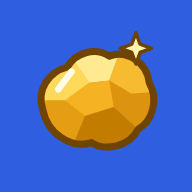
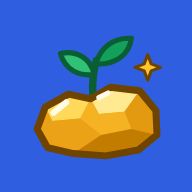
Identité Pépite : pépite d'or avec une pousse, logotype vectoriel, textes d'intro
Symbole pépite à facettes avec jeune pousse, logotype en tracés (accent en feuille, point du i en pépite), versions couleur et monochrome, planche de marque, texte d'introduction pour les parents et mention claire que les gains sont financés par les parents.

Claude-Session: https://claude.ai/code/session_01FnvJs2a6yw4f7tqEzZ4wjv

Changed region(s): [[0.1562, 0.1562, 0.8438, 0.8438]]

diff --git a/app.js b/app.js
@@ -37,8 +37,8 @@ const DICE = {
 };
 const CAPS = [20, 50, 100, 200, 300, 500, 750, 1000, 1500, 2000, 3000, 5000, 7500, 10000, 15000, 20000];
 const PIPS = { 1: [[50, 50]], 2: [[28, 28], [72, 72]], 3: [[28, 28], [50, 50], [72, 72]], 4: [[28, 28], [72, 28], [28, 72], [72, 72]], 5: [[28, 28], [72, 28], [50, 50], [28, 72], [72, 72]], 6: [[28, 26], [72, 26], [28, 50], [72, 50], [28, 74], [72, 74]] };
-const LOGO = `<svg class="logo" viewBox="0 0 64 64" aria-hidden="true"><defs><clipPath id="nc"><path d="M8 38C5 29 11 21 19 19 23 12 32 10 38 14 46 11 55 17 56 26 60 33 58 43 51 47 47 55 36 57 30 53 21 56 10 49 8 38Z"/></clipPath></defs><g clip-path="url(#nc)"><rect width="64" height="64" fill="#efa418"/><path d="M4 34 12 22 22 16 29 26 18 34z" fill="#ffd95a"/><path d="M22 16 34 8 42 14 38 25 29 26z" fill="#ffe991"/><path d="M42 14 58 18 60 30 48 31 38 25z" fill="#f7bb32"/><path d="M18 34 29 26 38 25 40 37 27 41z" fill="#f5b323"/><path d="M38 25 48 31 60 30 62 44 50 46 40 37z" fill="#dc9310"/><path d="M4 34 18 34 27 41 20 58 2 50z" fill="#e59d14"/><path d="M27 41 40 37 50 46 44 62 20 58z" fill="#c27c00"/></g><path d="M8 38C5 29 11 21 19 19 23 12 32 10 38 14 46 11 55 17 56 26 60 33 58 43 51 47 47 55 36 57 30 53 21 56 10 49 8 38Z" fill="none" stroke="#6e4400" stroke-width="3.2" stroke-linejoin="round"/><path d="M15 29 21 21" stroke="#fffbe6" stroke-width="3" stroke-linecap="round"/><path d="M50 3.5l1.9 5.1 5.1 1.9-5.1 1.9-1.9 5.1-1.9-5.1-5.1-1.9 5.1-1.9z" fill="#fff3b0" stroke="#6e4400" stroke-width="1.6" stroke-linejoin="round"/></svg>`;
-const WM = `<span class="wm" role="img" aria-label="Pépite"><span aria-hidden="true">P<span class="e">e</span>pite</span></span>`;
+const LOGO = `<svg class="logo" viewBox="0 0 64 64" aria-hidden="true"><path d="M30.5 32C30 26 30.6 21 32 16.5" stroke="#0b5e33" stroke-width="3.2" stroke-linecap="round" fill="none"/><path d="M31 22.5C24.5 23.5 18.5 20.5 16.5 13.5 23.5 12 29.5 15.5 31 22.5Z" fill="#2fc275" stroke="#0b5e33" stroke-width="2.2" stroke-linejoin="round"/><path d="M31.8 18C33.5 11 39.5 6.5 47 7 46 14.5 39.5 18.5 31.8 18Z" fill="#13a05a" stroke="#0b5e33" stroke-width="2.2" stroke-linejoin="round"/><defs><clipPath id="nc"><path d="M6.5 46 10 36.5 20 31 29.5 33 38 28 50.5 29.5 57.5 38 58 48.5 50 55 36 57.5 22 56.5 11 54Z"/></clipPath></defs><g clip-path="url(#nc)"><rect width="64" height="64" fill="#f0a71a"/><path d="M10 36.5 20 31 29.5 33 25 41.5 13 42.5Z" fill="#ffd95a"/><path d="M29.5 33 38 28 50.5 29.5 44 38.5 33 39.5Z" fill="#ffe991"/><path d="M50.5 29.5 57.5 38 58 48.5 47 46 44 38.5Z" fill="#e39a10"/><path d="M25 41.5 29.5 33 33 39.5 44 38.5 47 46 34 48.5Z" fill="#f5b323"/><path d="M6.5 46 10 36.5 13 42.5 25 41.5 34 48.5 22 56.5 11 54Z" fill="#eba216"/><path d="M34 48.5 47 46 58 48.5 50 55 36 57.5 22 56.5Z" fill="#c27c00"/></g><path d="M6.5 46 10 36.5 20 31 29.5 33 38 28 50.5 29.5 57.5 38 58 48.5 50 55 36 57.5 22 56.5 11 54Z" fill="none" stroke="#6e4400" stroke-width="3" stroke-linejoin="round"/><path d="M13.5 39 19 34.5" stroke="#fffbe6" stroke-width="2.6" stroke-linecap="round"/><path d="M33 32.5 37 30.5" stroke="#fffbe6" stroke-width="2.2" stroke-linecap="round"/><path d="M54 14l1.5 4 4 1.5-4 1.5-1.5 4-1.5-4-4-1.5 4-1.5z" fill="#ffc531" stroke="#6e4400" stroke-width="1.3" stroke-linejoin="round"/></svg>`;
+const WM = `<svg class="wm" role="img" aria-label="Pépite" viewBox="-10 -1010 2892 1260"><path d="M126 8Q81 8 62.0 -5.5Q43 -19 39.0 -40.5Q35 -62 35 -84V-600Q35 -622 39.0 -643.0Q43 -664 62.0 -677.5Q81 -691 127 -691H326Q364 -691 408.0 -675.5Q452 -660 491.5 -628.0Q531 -596 556.0 -548.0Q581 -500 581 -434Q581 -369 556.0 -321.0Q531 -273 491.5 -241.5Q452 -210 408.0 -194.5Q364 -179 325 -179H218V-83Q218 -61 214.0 -40.0Q210 -19 191.0 -5.5Q172 8 126 8ZM218 -362H326Q339 -362 356.0 -368.5Q373 -375 386.0 -391.0Q399 -407 399 -435Q399 -456 389.0 -472.5Q379 -489 362.5 -498.5Q346 -508 325 -508H218Z M883 20Q808 20 756.0 -4.5Q704 -29 672.0 -68.5Q640 -108 625.0 -154.0Q610 -200 610 -243Q610 -322 645.0 -382.0Q680 -442 742.0 -476.0Q804 -510 884 -510Q946 -510 990.0 -490.0Q1034 -470 1061.5 -439.0Q1089 -408 1102.0 -373.0Q1115 -338 1115 -308Q1115 -251 1087.0 -221.0Q1059 -191 1015 -191H802Q806 -175 818.5 -163.5Q831 -152 850.0 -145.5Q869 -139 891 -139Q913 -139 930.0 -141.5Q947 -144 959.5 -148.0Q972 -152 982.5 -156.0Q993 -160 1001.5 -162.5Q1010 -165 1018 -165Q1036 -165 1051.0 -153.0Q1066 -141 1078 -117Q1085 -104 1088.0 -92.5Q1091 -81 1091 -71Q1091 -41 1066.5 -21.0Q1042 -1 996.0 9.5Q950 20 883 20ZM802 -285H914Q928 -285 934.5 -291.0Q941 -297 941 -309Q941 -322 933.5 -331.0Q926 -340 913.0 -344.5Q900 -349 882 -349Q858 -349 840.0 -339.5Q822 -330 812.5 -315.5Q803 -301 802 -285Z M1430 -3Q1381 -3 1345 -23Q1340 -26 1335 -29V132Q1337 154 1332.5 174.5Q1328 195 1309.0 208.0Q1290 221 1245 221Q1201 221 1182.0 208.0Q1163 195 1159.5 175.0Q1156 155 1156 133V-410Q1156 -432 1159.5 -452.0Q1163 -472 1181.5 -485.5Q1200 -499 1244 -499Q1279 -499 1302 -490Q1321 -482 1331 -467Q1339 -473 1347 -478Q1382 -498 1430 -498Q1474 -498 1515.5 -477.0Q1557 -456 1590.0 -420.5Q1623 -385 1642.0 -340.0Q1661 -295 1661 -247Q1661 -197 1642.0 -152.5Q1623 -108 1590.5 -74.5Q1558 -41 1516.5 -22.0Q1475 -3 1430 -3ZM1406 -173Q1426 -173 1442.5 -183.0Q1459 -193 1469.0 -209.5Q1479 -226 1479 -245Q1479 -265 1469.5 -281.5Q1460 -298 1443.5 -307.5Q1427 -317 1407.0 -317.0Q1387 -317 1370.5 -307.0Q1354 -297 1344.5 -281.0Q1335 -265 1335 -245Q1335 -226 1345.0 -209.5Q1355 -193 1371.0 -183.0Q1387 -173 1406 -173Z M1789 9Q1744 9 1725.0 -4.5Q1706 -18 1702.5 -39.0Q1699 -60 1699 -82V-408Q1699 -430 1703.0 -450.5Q1707 -471 1726.0 -484.5Q1745 -498 1790 -498Q1835 -498 1853.5 -484.5Q1872 -471 1876.0 -450.0Q1880 -429 1880 -406V-81Q1880 -59 1876.0 -38.0Q1872 -17 1853.5 -4.0Q1835 9 1789 9Z M2210 9Q2157 9 2118.0 -3.0Q2079 -15 2053.5 -40.0Q2028 -65 2015.5 -103.0Q2003 -141 2003 -192V-319H1978Q1944 -321 1931.0 -341.0Q1918 -361 1918 -407Q1918 -450 1934.0 -471.5Q1950 -493 1982 -493H2003V-580Q2003 -603 2007.0 -622.5Q2011 -642 2030.0 -654.5Q2049 -667 2094 -667Q2138 -667 2157.0 -653.5Q2176 -640 2180.0 -619.0Q2184 -598 2184 -576V-496L2237 -498Q2259 -498 2279.5 -494.0Q2300 -490 2313.5 -471.0Q2327 -452 2327 -406Q2327 -364 2313.5 -345.0Q2300 -326 2279.5 -321.0Q2259 -316 2236 -316L2184 -317V-201Q2184 -190 2185.5 -182.5Q2187 -175 2190.0 -171.0Q2193 -167 2198.0 -165.0Q2203 -163 2211 -163Q2237 -163 2257.5 -159.0Q2278 -155 2289.5 -138.0Q2301 -121 2301 -81Q2301 -36 2287.0 -17.0Q2273 2 2252.0 5.5Q2231 9 2210 9Z M2625 20Q2550 20 2498.0 -4.5Q2446 -29 2414.0 -68.5Q2382 -108 2367.0 -154.0Q2352 -200 2352 -243Q2352 -322 2387.0 -382.0Q2422 -442 2484.0 -476.0Q2546 -510 2626 -510Q2688 -510 2732.0 -490.0Q2776 -470 2803.5 -439.0Q2831 -408 2844.0 -373.0Q2857 -338 2857 -308Q2857 -251 2829.0 -221.0Q2801 -191 2757 -191H2544Q2548 -175 2560.5 -163.5Q2573 -152 2592.0 -145.5Q2611 -139 2633 -139Q2655 -139 2672.0 -141.5Q2689 -144 2701.5 -148.0Q2714 -152 2724.5 -156.0Q2735 -160 2743.5 -162.5Q2752 -165 2760 -165Q2778 -165 2793.0 -153.0Q2808 -141 2820 -117Q2827 -104 2830.0 -92.5Q2833 -81 2833 -71Q2833 -41 2808.5 -21.0Q2784 -1 2738.0 9.5Q2692 20 2625 20ZM2544 -285H2656Q2670 -285 2676.5 -291.0Q2683 -297 2683 -309Q2683 -322 2675.5 -331.0Q2668 -340 2655.0 -344.5Q2642 -349 2624 -349Q2600 -349 2582.0 -339.5Q2564 -330 2554.5 -315.5Q2545 -301 2544 -285Z" fill="currentColor"/><path d="M752.5 -590C782.5 -720 932.5 -770 1022.5 -735C992.5 -610 862.5 -550 752.5 -590Z" fill="#13a05a"/><g transform="translate(1642.3 -837.8) scale(4.6)"><defs><clipPath id="wn"><path d="M6.5 46 10 36.5 20 31 29.5 33 38 28 50.5 29.5 57.5 38 58 48.5 50 55 36 57.5 22 56.5 11 54Z"/></clipPath></defs><g clip-path="url(#wn)"><rect width="64" height="64" fill="#f0a71a"/><path d="M10 36.5 20 31 29.5 33 25 41.5 13 42.5Z" fill="#ffd95a"/><path d="M29.5 33 38 28 50.5 29.5 44 38.5 33 39.5Z" fill="#ffe991"/><path d="M50.5 29.5 57.5 38 58 48.5 47 46 44 38.5Z" fill="#e39a10"/><path d="M25 41.5 29.5 33 33 39.5 44 38.5 47 46 34 48.5Z" fill="#f5b323"/><path d="M6.5 46 10 36.5 13 42.5 25 41.5 34 48.5 22 56.5 11 54Z" fill="#eba216"/><path d="M34 48.5 47 46 58 48.5 50 55 36 57.5 22 56.5Z" fill="#c27c00"/></g><path d="M6.5 46 10 36.5 20 31 29.5 33 38 28 50.5 29.5 57.5 38 58 48.5 50 55 36 57.5 22 56.5 11 54Z" fill="none" stroke="#6e4400" stroke-width="3.4" stroke-linejoin="round"/><path d="M13.5 39 19 34.5" stroke="#fffbe6" stroke-width="2.6" stroke-linecap="round"/><path d="M33 32.5 37 30.5" stroke="#fffbe6" stroke-width="2.2" stroke-linecap="round"/></g></svg>`;
 const I = {
   jar: '<svg viewBox="0 0 24 24" fill="none" stroke="currentColor" stroke-width="2" stroke-linecap="round" stroke-linejoin="round"><rect x="8" y="2.5" width="8" height="3" rx="1"/><path d="M6.5 7.5c0-1.1.9-2 2-2h7c1.1 0 2 .9 2 2V19a2.5 2.5 0 0 1-2.5 2.5h-6A2.5 2.5 0 0 1 6.5 19z"/><path d="M6.5 13.5h11"/></svg>',
   coin: '<svg viewBox="0 0 24 24" fill="none" stroke="currentColor" stroke-width="2"><circle cx="12" cy="12" r="9"/><circle cx="12" cy="12" r="5"/></svg>',
@@ -152,6 +152,7 @@ function splash(msg) { return `<div class="splash"><div>${LOGO}<h1 style="font-s
 function loginView() {
   const up = loginMode === 'up';
   return `<main class="view full"><div class="welcome">${LOGO}<h1>${WM}</h1><p>L’argent de poche qui pousse</p></div>
+<div class="intro"><p>Pépite aide les parents à montrer à leurs enfants, avec leur argent de poche, pourquoi épargner et investir tôt change tout.</p><p class="soft small">Bonus, bourse et intérêts sont un jeu financé par vous, les parents : ce n’est pas un vrai placement.</p></div>
 <div class="tabs2"><button data-act="lmode" data-m="in" aria-pressed="${!up}">J’ai un compte</button><button data-act="lmode" data-m="up" aria-pressed="${up}">Créer un compte</button></div>
 <form class="card" id="loginf" autocomplete="on">
 <h3>${up ? 'Créer le compte de la famille' : 'Connexion de cet appareil'}</h3>
@@ -168,7 +169,8 @@ function obView() {
   const o = ob, st = `<div class="steps">${[1, 2, 3].map(i => `<i class="${i <= o.step ? 'on' : ''}"></i>`).join('')}</div>`;
   let body = '';
   if (o.step === 1) {
-    body = `<div class="welcome">${LOGO}<h1>Bienvenue !</h1><p>Pépite apprend aux enfants à épargner et à investir, en jouant.</p></div>${st}
+    body = `<div class="welcome">${LOGO}<h1>Bienvenue !</h1><p>Avec leur argent de poche, vos enfants découvrent pourquoi épargner et investir tôt change tout.</p></div>
+<div class="msg">Important : ce que l’argent « gagne » dans Pépite (bonus, bourse) est financé par vous. C’est un jeu pédagogique, pas un vrai placement.</div>${st}
 <div class="why"><div>${I.coin}<span>Chaque semaine, une paie en pièces : on dépense ou on fait pousser.</span></div>
 <div>${I.die}<span>L’argent placé reçoit un bonus, puis la bourse de la semaine le fait monter ou baisser.</span></div>
 <div>${I.chart}<span>On voit son trésor grandir jusqu’à ses 18 ans.</span></div></div>
@@ -253,7 +255,7 @@ function giftView(k) {
 function bourseView(k, t) {
   const rolled = sameWeek(t.bourse && t.bourse.d), dn = DICE[F.diceName] ? DICE[F.diceName].name : 'Personnalisé';
   const recent = t.rolls.slice(-8).reverse();
-  return `<h2 class="title">La bourse de la semaine</h2><p class="lead">Comme à la vraie Bourse : parfois ton bocal baisse, mais en moyenne il monte.</p>
+  return `<h2 class="title">La bourse de la semaine</h2><p class="lead">Comme à la vraie Bourse : parfois ton bocal baisse, mais en moyenne il monte. C’est un jeu : ce que ton argent gagne ici, c’est ${P().label.toLowerCase()} qui le paie${F.parents === 'parents' || F.parents === 'papamaman' ? 'nt' : ''}.</p>
 <section class="card dicebox"><div id="die">${die(rolled ? t.bourse.face : 6, 132)}</div>
 ${rolled ? `<p class="result">Dé ${t.bourse.face} : ${t.bourse.rate < 0 ? 'semaine difficile' : t.bourse.rate === 0 ? 'semaine calme' : 'belle semaine'} !</p><p style="margin:0">Ton bocal a ${t.bourse.gain < 0 ? 'perdu' : 'gagné'} <b class="${t.bourse.gain < 0 ? 'neg' : 'g'}">${f(Math.abs(t.bourse.gain))}</b>. Prochain lancer lundi.</p>`
     : t.total > 0 ? `<button class="btn full" data-act="roll" ${ready ? '' : 'disabled'}>Lancer le dé</button>` : `<p style="margin:0">Fais d’abord pousser quelques pièces : le dé agit sur ce qu’il y a dans ton bocal.</p>`}

diff --git a/app.css b/app.css
@@ -207,8 +207,9 @@ input:focus,select:focus{border-color:var(--kid);outline:none}
 @media(min-width:700px){.modal{place-items:center}}
 
 /* logo et nom */
-.wm{display:inline-block;font-family:Fredoka,Nunito,sans-serif;font-weight:700;letter-spacing:.3px;line-height:1}
-.wm .e{position:relative;display:inline-block}
-.wm .e::before{content:"";position:absolute;left:52%;top:-.12em;width:.34em;height:.27em;transform:translateX(-35%) rotate(-28deg);background:#13a05a;border-radius:0 100% 0 100%}
-.brand .wm{font-size:26px;padding-top:4px}
-.splash svg.logo,.welcome svg.logo{width:104px;height:104px}
+.wm{display:inline-block;height:1em;width:auto;vertical-align:-.12em;color:var(--ink)}
+.brand .wm{height:27px;width:auto;margin-top:2px}
+.splash svg.logo,.welcome svg.logo{width:116px;height:116px}
+.welcome h1 .wm,.splash h1 .wm{height:56px}
+.intro{background:var(--card);border:2px solid var(--line);border-radius:20px;padding:14px 16px;margin-top:16px;text-align:center}
+.intro p{margin:0;font-size:16px}.intro p+p{margin-top:6px}

diff --git a/sw.js b/sw.js
@@ -1,5 +1,5 @@
 // Cache de l'application pour un démarrage rapide et hors ligne. Les données passent par Firebase.
-const CACHE = 'pepite-v7';
+const CACHE = 'pepite-v8';
 const SHELL = ['./', './index.html', './app.js', './app.css', './config.js', './vendor/idiomorph.esm.js', './manifest.webmanifest', './icons/icon-192.png', './icons/icon-512.png'];
 self.addEventListener('install', e => { e.waitUntil(caches.open(CACHE).then(c => c.addAll(SHELL)).then(() => self.skipWaiting())); });
 self.addEventListener('activate', e => {
